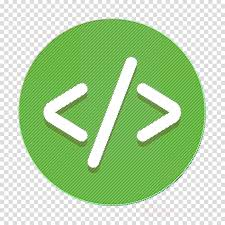
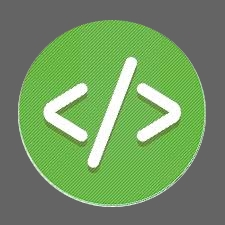
20-04-2022 1

diff --git a/pages/index.js b/pages/index.js
@@ -8,21 +8,21 @@ export default function Home() {
   return (
     <div className={styles.container}>
       <Head>
-        <title>Coding for beginers</title>
+        <title>Coding for beginners</title>
         <meta name="description" content="Generated by create next app" />
-        {/* <link rel="icon" href="/favicon.ico" /> */}
+        <link rel="icon" href="/image.png" />
       </Head>
 
       <main className={styles.main}>
 
         <h1 className={styles.title}>
-          Coding for beginers
+          Coding for beginners
         </h1>
-        
+
        <img src="/coding.module.gif" alt="" />
 
         <p className={styles.description}>
-          A site for beginers.
+          A site for beginners.
         </p>
         <h2>Top Blogs</h2>
         <div className={styles.blogs}><div className={styles.blogsdiv}><h3>Lorem, ipsum dolor</h3>

diff --git a/pages/blog.js b/pages/blog.js
@@ -63,8 +63,8 @@ const Blog = (props) => {
     <main className={styles.main}>
       {blogs.map((blogitem) => {
         return <div key={blogitem.slug} className={styles.blogs}><div className={styles.b}><Link href={`/blogpost/${blogitem.slug}`}><h2 className={styles.blogItemh3}>{blogitem.Title}</h2></Link>
-               <p className={styles.blogItemp} >{blogitem.metadesc.substr(0,140)}...</p>
-               <button className={styles.btn}>Read more</button>
+               <Link href={`/blogpost/${blogitem.slug}`}><p className={styles.blogItemp} >{blogitem.metadesc.substr(0,140)}...</p></Link>
+               <Link href={`/blogpost/${blogitem.slug}`}><button className={styles.btn}>Read more</button></Link>
                </div></div>
       })}
     </main>

diff --git a/pages/blogpost/[slug].js b/pages/blogpost/[slug].js
@@ -12,7 +12,7 @@ const Slug = (props) => {
 
   return (
     <div className={styles.p}>
-      <h1> {blog && blog.slug}</h1>
+      {/* <h1> {blog && blog.slug}</h1> */}
       {blog &&<div  dangerouslySetInnerHTML={createMarkup(blog.p1)} ></div> }
       
     
